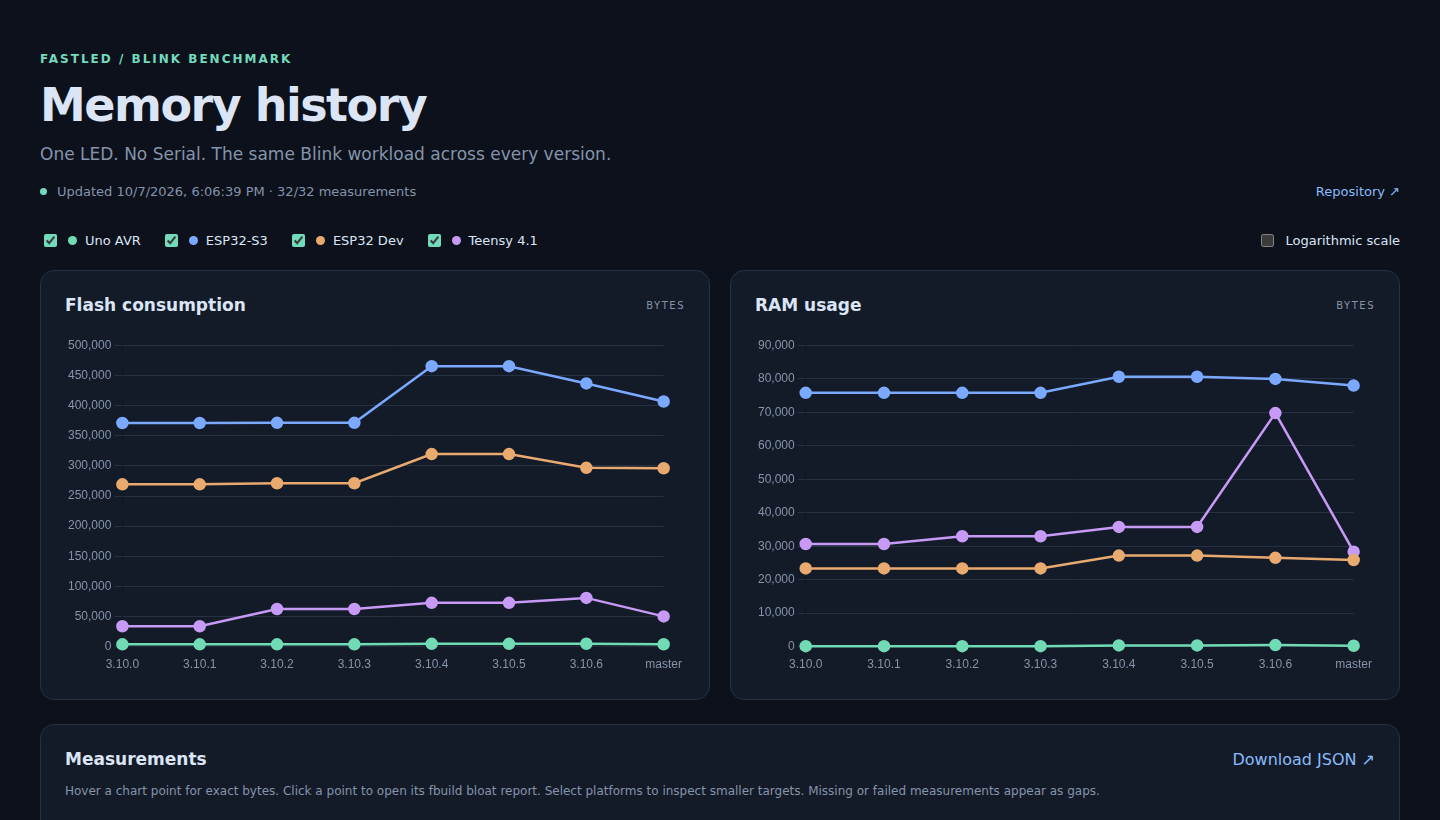
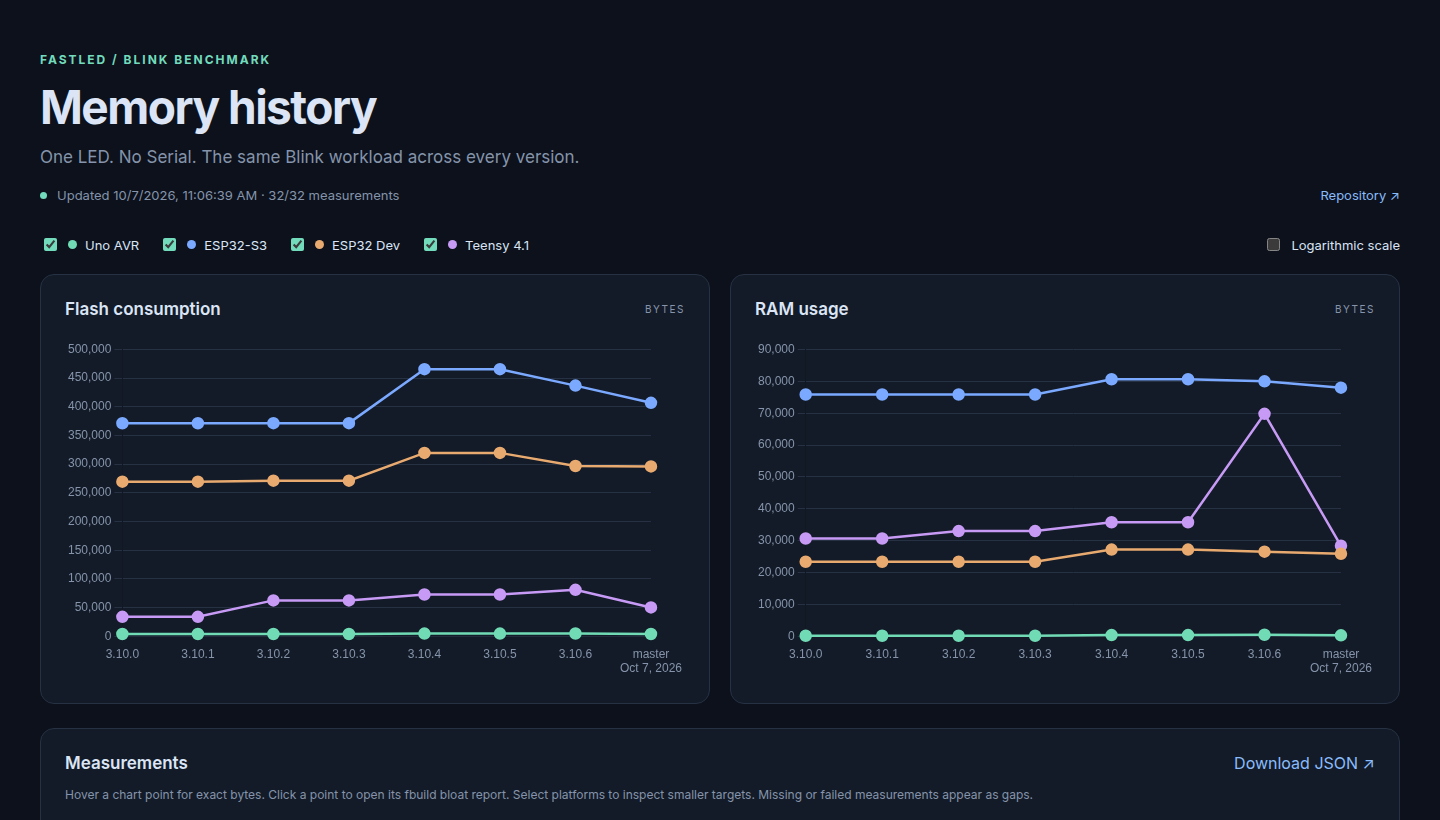
feat: label master measurements with viewer-local dates

diff --git a/docs/app.js b/docs/app.js
@@ -7,6 +7,18 @@ const platforms = [
 const versions = Array.from({ length: 7 }, (_, i) => `3.10.${i}`).concat('master');
 const enabled = new Set(platforms.map(p => p.id));
 const bytes = n => `${n.toLocaleString('en-US')} B`;
+const localDate = timestamp => {
+  const date = new Date(timestamp);
+  if (!timestamp || Number.isNaN(date.getTime())) return 'Date unavailable';
+  return date.toLocaleDateString(undefined, { year: 'numeric', month: 'short', day: 'numeric' });
+};
+const localTimestamp = timestamp => timestamp && !Number.isNaN(new Date(timestamp).getTime()) ? new Date(timestamp).toLocaleString(undefined, { timeZoneName: 'short' }) : 'Date unavailable';
+function versionLabel(element, row) {
+  element.textContent = row.version;
+  if (row.version === 'master') {
+    const date = document.createElement('span'); date.className = 'measurement-date'; date.textContent = localDate(row.measured_at); date.title = localTimestamp(row.measured_at); element.append(date);
+  }
+}
 let results = [];
 let chartVersions = [...versions];
 const charts = {};
@@ -18,8 +30,9 @@ async function openBloat(row) {
   if (!row?.bloat_report) return;
   const request = ++reportRequest;
   const platform = platforms.find(p => p.id === row.board);
-  document.getElementById('bloat-title').textContent = `${platform.name} · ${row.version} · fbuild bloat`;
-  document.getElementById('bloat-meta').textContent = `SHA ${row.sha.slice(0, 10)} · fbuild ${row.fbuild} · flash ${bytes(row.flash)} · static RAM ${bytes(row.ram)}`;
+  const title = document.getElementById('bloat-title'); title.textContent = `${platform.name} · ${row.version} · fbuild bloat`;
+  if (row.version === 'master') { const date = document.createElement('span'); date.className = 'measurement-date'; date.textContent = localDate(row.measured_at); title.append(date); }
+  document.getElementById('bloat-meta').textContent = `SHA ${row.sha.slice(0, 10)} · fbuild ${row.fbuild} · flash ${bytes(row.flash)} · static RAM ${bytes(row.ram)} · measured ${localTimestamp(row.measured_at)}`;
   const container = document.getElementById('bloat-report'); container.textContent = 'Loading symbol report…';
   if (!modal.open) modal.showModal();
   try {
@@ -72,12 +85,12 @@ function chart(metric) {
     return {label:platform.name, borderColor:platform.color, backgroundColor:platform.color, pointRadius:5, pointHoverRadius:8, pointHitRadius:12, borderWidth:2.5, spanGaps:false, rows, data:rows.map(row => row && Number.isFinite(row[metric]) && (!log || row[metric]>0) ? row[metric] : null)};
   });
   charts[metric] = new Chart(canvas, {
-    type:'line', data:{labels:chartVersions,datasets}, options:{
+    type:'line', data:{labels:chartVersions.map(version => version === 'master' ? ['master', ...new Set(results.filter(row => row.version === 'master' && enabled.has(row.board)).map(row => localDate(row.measured_at)))] : version),datasets}, options:{
       responsive:true, maintainAspectRatio:false, animation:false,
       interaction:{mode:'nearest',intersect:true},
       onHover:(event,elements) => { canvas.style.cursor = elements.length ? 'pointer' : 'default'; },
       onClick:(event,elements,chart) => { if(elements.length) { const p=elements[0]; openBloat(chart.data.datasets[p.datasetIndex].rows[p.index]); } },
-      plugins:{legend:{display:false},tooltip:{backgroundColor:'#0c111c',padding:12,callbacks:{label:context=>`${context.dataset.label}: ${bytes(context.parsed.y)}`,afterLabel:context=>`SHA ${context.dataset.rows[context.dataIndex].sha.slice(0,10)} · click for bloat`}}},
+      plugins:{legend:{display:false},tooltip:{backgroundColor:'#0c111c',padding:12,callbacks:{label:context=>`${context.dataset.label}: ${bytes(context.parsed.y)}`,afterLabel:context=> { const row = context.dataset.rows[context.dataIndex]; return [`Measured ${localTimestamp(row.measured_at)}`, `SHA ${row.sha.slice(0,10)} · click for bloat`]; }}}},
       scales:{x:{grid:{display:false},ticks:{color:'#8594aa'}},y:{type:log?'logarithmic':'linear',beginAtZero:!log,grid:{color:'#263143'},ticks:{color:'#8594aa',callback:value=>Number(value).toLocaleString('en-US')}}}
     }
   });
@@ -89,6 +102,7 @@ function render() {
     const row = results.find(r => r.board === platform.id && r.version === version);
     const tr = document.createElement('tr');
     [version, platform.name, row?.status === 'ok' ? bytes(row.flash) : '—', row?.status === 'ok' ? bytes(row.ram) : '—'].forEach(value => { const td = document.createElement('td'); td.textContent = value; tr.append(td); });
+    if (version === 'master') versionLabel(tr.firstElementChild, row || { version });
     const source = document.createElement('td');
     if (row?.sha) { const link = document.createElement('a'); link.href = `https://github.com/FastLED/FastLED/commit/${row.sha}`; link.textContent = row.sha.slice(0, 10); source.append(link); } else source.textContent = '—';
     tr.append(source);

diff --git a/docs/style.css b/docs/style.css
@@ -2,3 +2,4 @@
 
 .chart{height:340px}.chart canvas{max-width:100%}button{font:inherit;color:#8abcfb;background:#1c2b40;border:1px solid #304968;border-radius:7px;padding:5px 10px;cursor:pointer}dialog{width:min(1100px,94vw);max-height:85vh;overflow:auto;background:#131b28;color:#dbe5f5;border:1px solid #304968;border-radius:14px;padding:24px}dialog::backdrop{background:#050911bf}.modal-head{display:flex;align-items:center;justify-content:space-between;gap:20px}.modal-head h2{font-size:20px;margin:0}#bloat-meta{color:#8594aa;font-size:13px}#bloat-report table{margin-top:20px;table-layout:fixed}#bloat-report td:nth-child(3),#bloat-report td:nth-child(4){overflow-wrap:anywhere}#bloat-report th:nth-child(1){width:65px}#bloat-report th:nth-child(2){width:85px}#bloat-report th:nth-child(4){width:22%}
 .bloat-section{margin-top:28px;border-top:1px solid var(--border);padding-top:20px}.bloat-section h3{margin:0;font-size:18px}.bloat-section .note{margin:8px 0}.bloat-more{margin-top:14px}#bloat-report .bloat-section table{margin-top:12px}#bloat-report tr[hidden]{display:none}
+.measurement-date{display:block;margin-top:4px;color:var(--muted);font-size:12px;font-weight:400}

diff --git a/POLICY.md b/POLICY.md
@@ -16,10 +16,13 @@
 - Show a prominent live-site link in the README. Embed a real overview
   screenshot as a noninteractive PNG, linked to the interactive Pages site.
   Regenerate that screenshot whenever the daily data is published.
-- Every master label must include a secondary measurement-date label in UTC
-  (`YYYY-MM-DD`), including chart axes, table version cells and report headings.
+- Every master label must include a secondary measurement-date label converted
+  to the viewer's local time zone and locale, including chart axes, table version
+  cells and report headings. Store timestamps in UTC and convert on display.
   Use the point's measurement timestamp, not the page viewing date or commit
-  date. Hover details retain the exact timestamp and source SHA.
+  date. Hover details retain the exact localized timestamp, time-zone label and
+  source SHA. If platforms were measured on different local dates, the shared
+  master axis label shows each date; each point retains its own timestamp.
 
 ## JSON transport and typed benchmark data
 
